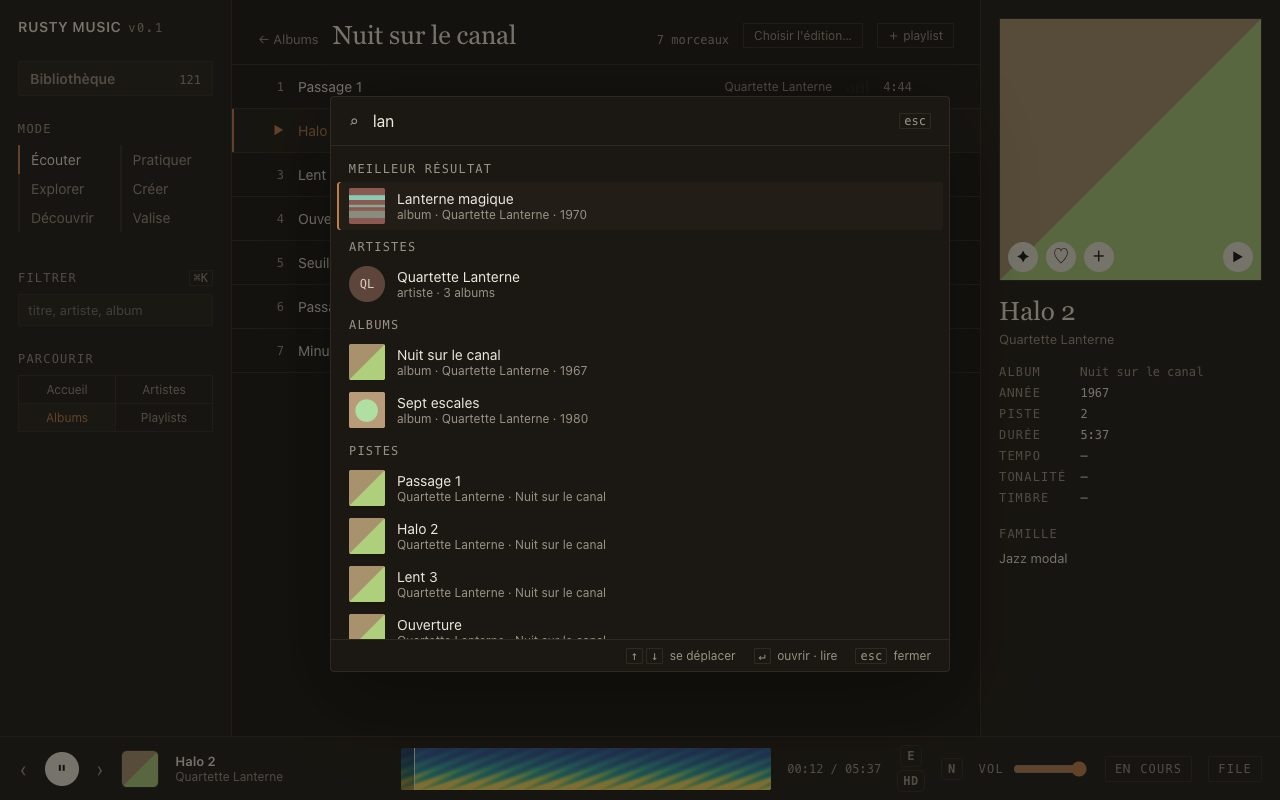
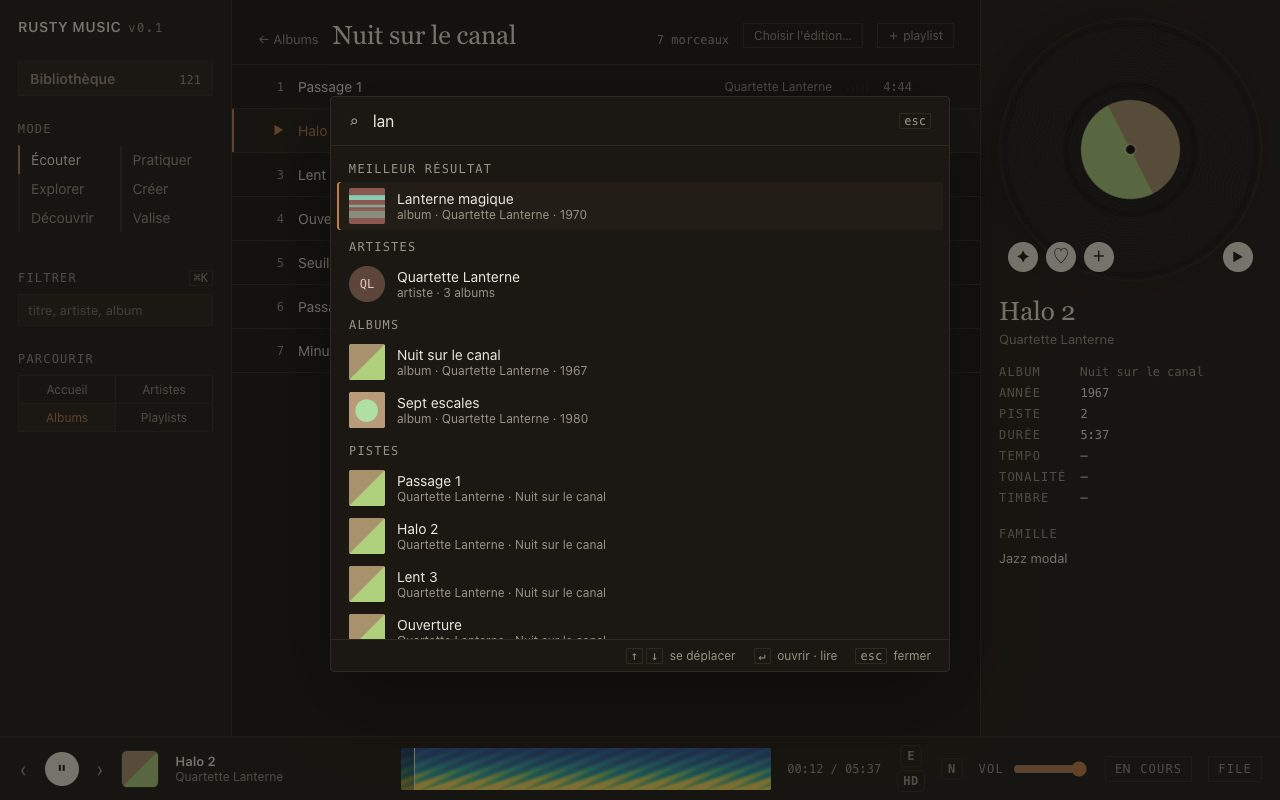
Écouter : la pochette de l'inspecteur devient un vinyle qui tourne
Quand le morceau inspecté est celui qui joue, la pochette rétrécit en
macaron et un vinyle grandit autour ; il prend sa vitesse et ralentit comme
une platine, puis redevient un carré à l'endroit. Rien avec le mouvement
réduit. Le dessin du vinyle est partagé avec « En cours ».

Changed region(s): [[0.7812, 0.0, 1.0, 0.375]]

diff --git a/apps/desktop/ui/js/en-cours.js b/apps/desktop/ui/js/en-cours.js
@@ -253,6 +253,98 @@ document.addEventListener("theme", () => {
   pochette(etat.chemin).then((img) => poserCouleurs(img)).catch(() => {});
 });
 
+/* ------------------------------------------ la pochette de l'inspecteur
+ *
+ * Quand le morceau inspecté est celui qui joue (ou attend en pause), sa
+ * pochette se change en vinyle : `.pochette--disque` lance la métamorphose
+ * (CSS, 0,6 s), puis la platine tourne. Sa vitesse n'est pas un interrupteur :
+ * elle monte en une seconde environ à la lecture et redescend à la pause,
+ * comme une platine (Web Animations, `playbackRate` lissé). Au retour en
+ * carré, le disque finit son tour jusqu'à l'endroit avant de se redresser.
+ * Avec `prefers-reduced-motion`, la pochette reste un carré immobile.
+ */
+const platine = {
+  el: $("pochette-platine"),
+  hote: $("pochette"),
+  tour: null, // l'animation de rotation (Web Animations)
+  vitesse: 0, // playbackRate courant, 0..1
+  image: 0, // requestAnimationFrame de la rampe
+  sortie: null, // l'animation qui ramène le disque à l'endroit
+};
+const TOUR_MS = 1800; // 33 ⅓ tours/min
+
+function disqueVoulu() {
+  if (reduit.matches || !lecture.courant || lecture.fini) return false;
+  return $("insp-titre").dataset.path === lecture.courant && !$("insp").hidden;
+}
+
+function rampeVitesse() {
+  const cible = transport.veutJouer ? 1 : 0;
+  platine.vitesse += (cible - platine.vitesse) * 0.06;
+  if (Math.abs(cible - platine.vitesse) < 0.003) platine.vitesse = cible;
+  if (platine.tour) {
+    platine.tour.playbackRate = platine.vitesse;
+    if (platine.vitesse === 0) platine.tour.pause();
+    else if (platine.tour.playState !== "running") platine.tour.play();
+  }
+  platine.image = platine.vitesse === cible ? 0 : requestAnimationFrame(rampeVitesse);
+}
+
+function entrerDisque() {
+  platine.sortie?.cancel();
+  platine.sortie = null;
+  platine.hote.classList.add("pochette--disque");
+  if (!platine.tour) {
+    platine.tour = platine.el.animate(
+      [{ transform: "rotate(0turn)" }, { transform: "rotate(1turn)" }],
+      { duration: TOUR_MS, iterations: Infinity },
+    );
+    platine.tour.pause();
+    platine.vitesse = 0;
+  }
+}
+
+function sortirDisque() {
+  cancelAnimationFrame(platine.image);
+  platine.image = 0;
+  const tour = platine.tour;
+  platine.tour = null;
+  platine.vitesse = 0;
+  if (!tour) {
+    platine.hote.classList.remove("pochette--disque");
+    return;
+  }
+  // L'angle atteint, puis un dernier bout de tour jusqu'à l'endroit : le
+  // carré ne se redresse jamais de travers.
+  const angle = ((tour.currentTime ?? 0) % TOUR_MS) / TOUR_MS;
+  tour.cancel();
+  if (angle < 0.001 || reduit.matches) {
+    platine.hote.classList.remove("pochette--disque");
+    return;
+  }
+  platine.sortie = platine.el.animate(
+    [{ transform: `rotate(${angle}turn)` }, { transform: "rotate(1turn)" }],
+    { duration: 500 + 500 * (1 - angle), easing: "cubic-bezier(.2, .7, .3, 1)" },
+  );
+  platine.sortie.onfinish = () => {
+    platine.sortie = null;
+    platine.hote.classList.remove("pochette--disque");
+  };
+}
+
+/// Un relevé léger, quatre fois par seconde : l'inspecteur, la lecture et
+/// l'intention changent par bien des chemins, aucun n'a à prévenir ici.
+function suivrePlatine() {
+  const voulu = disqueVoulu();
+  const actif = platine.hote.classList.contains("pochette--disque") && !platine.sortie;
+  if (voulu && !actif) entrerDisque();
+  else if (!voulu && actif) sortirDisque();
+  if (voulu && !platine.image && platine.vitesse !== (transport.veutJouer ? 1 : 0)) {
+    platine.image = requestAnimationFrame(rampeVitesse);
+  }
+}
+setInterval(suivrePlatine, 250);
+
 export {
   basculerEnCours, fermerEnCours, ouvrirEnCours,
 };

diff --git a/apps/desktop/ui/style.css b/apps/desktop/ui/style.css
@@ -821,12 +821,16 @@ body:has(#file:not([hidden])) .en-cours { right: var(--largeur-droite); }
 .en-cours__platine { position: relative; width: calc(var(--disque) * 1.3); height: calc(var(--disque) * 1.3); }
 .en-cours__spectre { position: absolute; inset: 0; width: 100%; height: 100%; }
 /* Un vinyle : noir dans les deux thèmes (c'est un objet), sillons fins, une
-   plage plus lisse vers le macaron. */
-.en-cours__disque {
-  position: absolute; inset: calc(var(--disque) * .15); border-radius: 50%;
+   plage plus lisse vers le macaron. Le même dessin dans la vue « En cours »
+   et dans la pochette de l'inspecteur. */
+.vinyle {
+  border-radius: 50%;
   background:
     repeating-radial-gradient(circle, rgb(255 255 255 / .045) 0 .5px, transparent 1px 2.6px),
     radial-gradient(circle, #121212 0 33%, #0b0b0b 34% 36%, #141414 37% 66%, #0e0e0e 67% 69%, #151515 70% 97%, #0a0a0a 98%);
+}
+.en-cours__disque {
+  position: absolute; inset: calc(var(--disque) * .15);
   box-shadow: 0 0 0 1px rgb(255 255 255 / .06), 0 28px 70px rgb(0 0 0 / .45);
   animation: en-cours-tourner 1.8s linear infinite; animation-play-state: paused;
 }
@@ -1806,6 +1810,39 @@ body:has(#file:not([hidden])) .en-cours { right: var(--largeur-droite); }
   letter-spacing: .1em; text-transform: uppercase; color: var(--mut);
 }
 .pochette--pleine span { display: none; }
+/* La pochette en carré, puis en macaron d'un vinyle quand le morceau inspecté
+   joue (`.pochette--disque`, posée par `en-cours.js`) : le carré rétrécit et
+   s'arrondit, le disque grandit autour de lui, en 0,6 s ; la platine tourne
+   ensuite, sa vitesse pilotée en JS (démarrage et arrêt progressifs). */
+.pochette--pleine { background: transparent; }
+.pochette__platine { position: absolute; inset: 0; }
+.pochette__carre {
+  position: absolute; inset: 0;
+  background: center / cover no-repeat;
+  transition: inset .6s cubic-bezier(.3, .7, .2, 1), border-radius .6s cubic-bezier(.3, .7, .2, 1), box-shadow .6s;
+}
+.pochette__vinyle {
+  position: absolute; inset: 0;
+  transform: scale(.38); opacity: 0;
+  box-shadow: 0 0 0 1px rgb(255 255 255 / .06), 0 14px 34px rgb(0 0 0 / .35);
+  transition: transform .6s cubic-bezier(.3, .7, .2, 1), opacity .35s ease;
+}
+.pochette--disque { border-color: transparent; }
+.pochette--disque .pochette__vinyle { transform: scale(1); opacity: 1; }
+.pochette--disque .pochette__carre {
+  inset: 31%; border-radius: 50%;
+  box-shadow: 0 0 0 1px rgb(0 0 0 / .5), inset 0 0 0 1px rgb(255 255 255 / .08);
+}
+/* L'axe, au centre du macaron. */
+.pochette__carre::after {
+  content: ""; position: absolute; inset: 45.5%; border-radius: 50%;
+  background: #0b0b0b; box-shadow: 0 0 0 1.5px rgb(255 255 255 / .35);
+  opacity: 0; transition: opacity .3s .3s;
+}
+.pochette--disque .pochette__carre::after { opacity: 1; }
+@media (prefers-reduced-motion: reduce) {
+  .pochette__carre, .pochette__vinyle, .pochette__carre::after { transition: none; }
+}
 
 /* Playlist « dans l'esprit de ce morceau » (`genererAlchimieMorceau`) — même
    geste que `.album__alchimie` sur une case de la grille, posé ici sur la

diff --git a/apps/desktop/ui-tests/fumee.spec.js b/apps/desktop/ui-tests/fumee.spec.js
@@ -957,6 +957,30 @@ test("vue « En cours » : le bouton du transport et la touche F l'ouvrent et la
   await expect(page.locator("#q")).toHaveValue("f");
 });
 
+test("inspecteur : la pochette du morceau qui joue devient un vinyle, et redevient carrée", async ({ page }) => {
+  await lireUnAlbum(page);
+  const pochette = page.locator("#pochette");
+  // Le morceau qui joue, ouvert dans l'inspecteur : un disque.
+  await page.locator("#grille .album").first().click();
+  await page.locator("#liste .ligne").first().click();
+  await expect(page.locator("#insp-titre")).toHaveText(PISTES[0].title);
+  await expect(pochette).toHaveClass(/pochette--disque/);
+  // Un autre morceau inspecté : la pochette redevient un carré.
+  await page.locator("#liste .ligne").nth(1).click();
+  await expect(page.locator("#insp-titre")).toHaveText(PISTES[1].title);
+  await expect(pochette).not.toHaveClass(/pochette--disque/, { timeout: 3000 });
+});
+
+test("inspecteur : pas de vinyle si le système demande moins de mouvement", async ({ page }) => {
+  await page.emulateMedia({ reducedMotion: "reduce" });
+  await lireUnAlbum(page);
+  await page.locator("#grille .album").first().click();
+  await page.locator("#liste .ligne").first().click();
+  await expect(page.locator("#insp-titre")).toHaveText(PISTES[0].title);
+  await page.waitForTimeout(400);
+  await expect(page.locator("#pochette")).not.toHaveClass(/pochette--disque/);
+});
+
 test("vue « En cours » : sans mouvement si le système le demande", async ({ page }) => {
   await page.emulateMedia({ reducedMotion: "reduce" });
   await lireUnAlbum(page);

diff --git a/apps/desktop/ui/js/ecouter.js b/apps/desktop/ui/js/ecouter.js
@@ -596,9 +596,7 @@ async function inspecter(t) {
   // L'inspecteur a pu changer de morceau pendant la résolution (cache ou
   // lecture disque) — même garde que `montrerDescripteurs` et consorts.
   if ($("insp-titre").dataset.path !== viseePochette) return;
-  const el = $("pochette");
-  el.style.backgroundImage = img ? `url("${img}")` : "";
-  el.classList.toggle("pochette--pleine", Boolean(img));
+  poserPochetteInspecteur(img);
 
   montrerDescripteurs(t);
   montrerVoisins(t);
@@ -606,6 +604,13 @@ async function inspecter(t) {
   montrerCredits(t);
   montrerLabel(t);
   montrerCritiques(t);
+}
+
+/// La pochette de l'inspecteur : posée sur son carré, qui devient le macaron
+/// du vinyle quand le morceau inspecté est celui qui joue (`en-cours.js`).
+function poserPochetteInspecteur(img) {
+  $("pochette-carre").style.backgroundImage = img ? `url("${img}")` : "";
+  $("pochette").classList.toggle("pochette--pleine", Boolean(img));
 }
 
 /// Peuple l'inspecteur pour un album de l'anneau — le même composant que
@@ -655,9 +660,7 @@ async function inspecterAlbum(noeud) {
   const img = noeud.path ? await pochette(noeud.path) : null;
   // L'inspecteur a pu changer d'album pendant la résolution de la pochette.
   if (inspectionAlbum !== noeud) return;
-  const el = $("pochette");
-  el.style.backgroundImage = img ? `url("${img}")` : "";
-  el.classList.toggle("pochette--pleine", Boolean(img));
+  poserPochetteInspecteur(img);
 
   montrerVoisinsAlbum();
 }

diff --git a/apps/desktop/ui/index.html b/apps/desktop/ui/index.html
@@ -1595,6 +1595,14 @@
     <aside class="inspecteur">
       <div class="pochette" id="pochette">
         <span>pochette</span>
+        <!-- Le morceau inspecté est celui qui joue : la pochette se change en
+             vinyle (elle rétrécit en macaron, le disque grandit autour) qui
+             tourne, prend sa vitesse et ralentit comme une platine.
+             `js/en-cours.js`. -->
+        <div id="pochette-platine" class="pochette__platine" aria-hidden="true">
+          <div class="pochette__vinyle vinyle"></div>
+          <div id="pochette-carre" class="pochette__carre"></div>
+        </div>
         <button class="insp__lecture" id="insp-lecture" aria-label="Lire" title="Lire">▶</button>
         <button class="insp__alchimie" id="insp-alchimie" aria-label="Playlist dans l'esprit de ce morceau" title="Playlist dans l'esprit de ce morceau">✦</button>
         <!-- Favori : bascule le morceau inspecté (il suit la lecture). Caché
@@ -1895,7 +1903,7 @@
     <div class="en-cours__scene">
       <div class="en-cours__platine">
         <canvas id="en-cours-spectre" class="en-cours__spectre" aria-hidden="true"></canvas>
-        <div id="en-cours-disque" class="en-cours__disque">
+        <div id="en-cours-disque" class="en-cours__disque vinyle">
           <div id="en-cours-macaron" class="en-cours__macaron"></div>
         </div>
         <div class="en-cours__reflet" aria-hidden="true"></div>

diff --git a/docs/journal.md b/docs/journal.md
@@ -7392,3 +7392,26 @@ pas.
 
 Tests : un test de fumée pour le bouton et la touche F (F tapé dans le champ
 du rail s'y écrit sans ouvrir la vue) ; captures refaites (`docs/images/`).
+
+## Écouter : la pochette de l'inspecteur devient un vinyle — 23 nov. 2026
+
+**Idée de François** : à la lecture d'un disque, transformer la pochette du
+panneau de droite en vinyle qui tourne, avec une animation douce.
+
+- **Métamorphose** (CSS, 0,6 s) : la pochette posée sur un carré
+  (`#pochette-carre`) rétrécit en macaron et s'arrondit, le vinyle
+  (`.vinyle`, le dessin partagé avec « En cours ») grandit autour de lui.
+- **Vitesse de platine** : la rotation est une animation Web Animations dont
+  `playbackRate` suit l'intention du transport, lissé d'une image à l'autre —
+  environ une seconde pour démarrer, autant pour s'arrêter. Une animation CSS
+  ne sait que s'arrêter net.
+- **Retour en carré** : le disque finit son tour jusqu'à l'endroit avant de se
+  redresser, pour qu'un carré ne réapparaisse jamais de travers.
+- **Quand** : le morceau inspecté est `lecture.courant` (lecture ou pause),
+  relevé quatre fois par seconde — l'inspecteur, la lecture et l'intention
+  changent par trop de chemins pour que chacun prévienne.
+- `prefers-reduced-motion` : pas de vinyle, la pochette reste carrée.
+
+Tests : deux tests de fumée (disque puis retour au carré en changeant de
+morceau inspecté ; pas de disque avec le mouvement réduit). Audit
+`en-cours,ecoute` : 36 cellules, 0 violation.

diff --git a/docs/interface-guidelines.md b/docs/interface-guidelines.md
@@ -87,6 +87,16 @@ tient en quatre zones, présentes et identiques dans tous les écrans du rail :
   autour du disque, sous un voile `--album-bas` côté texte : la seule exception
   à la Règle 3 (voir là). Avec `prefers-reduced-motion`, ni rotation ni spectre.
 
+- **La pochette de l'inspecteur en vinyle** (23 novembre 2026). Quand le
+  morceau inspecté est celui qui joue ou attend en pause, sa pochette rétrécit
+  en macaron et un vinyle grandit autour (0,6 s), puis tourne : il prend sa
+  vitesse en une seconde environ à la lecture et ralentit jusqu'à l'arrêt à la
+  pause, comme une platine. Un autre morceau inspecté, ou la fin de la file :
+  le disque finit son tour jusqu'à l'endroit et redevient un carré. Les
+  boutons ▶ ✦ ♡ ＋ restent posés dessus. Le dessin du vinyle (`.vinyle`) est
+  celui de la vue « En cours ». Avec `prefers-reduced-motion`, la pochette
+  reste un carré immobile (`#pochette-platine`, `js/en-cours.js`).
+
 - **Choisir l'édition, face à face** (1ᵉʳ novembre 2026, idée de Disc
   Player). Sur les pistes d'un album ouvert, « Choisir l'édition… » ouvre une
   boîte au même voile que la palette (`#editions`, `js/editions.js`) : une
